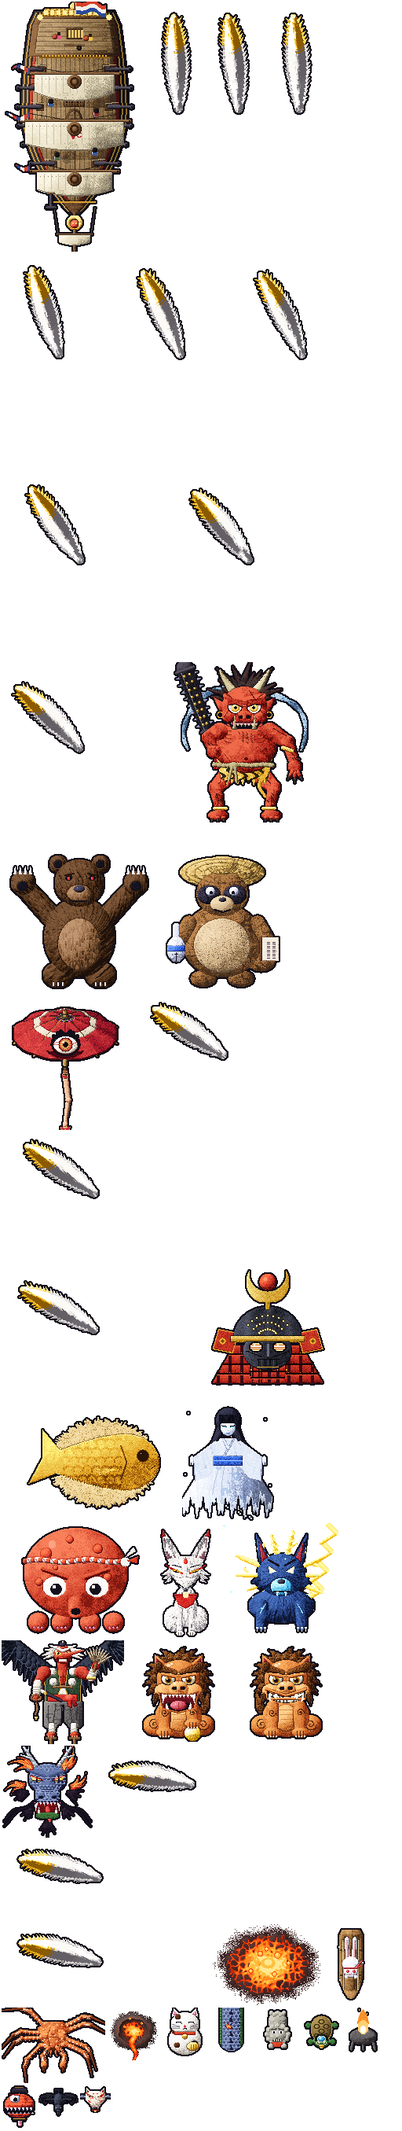
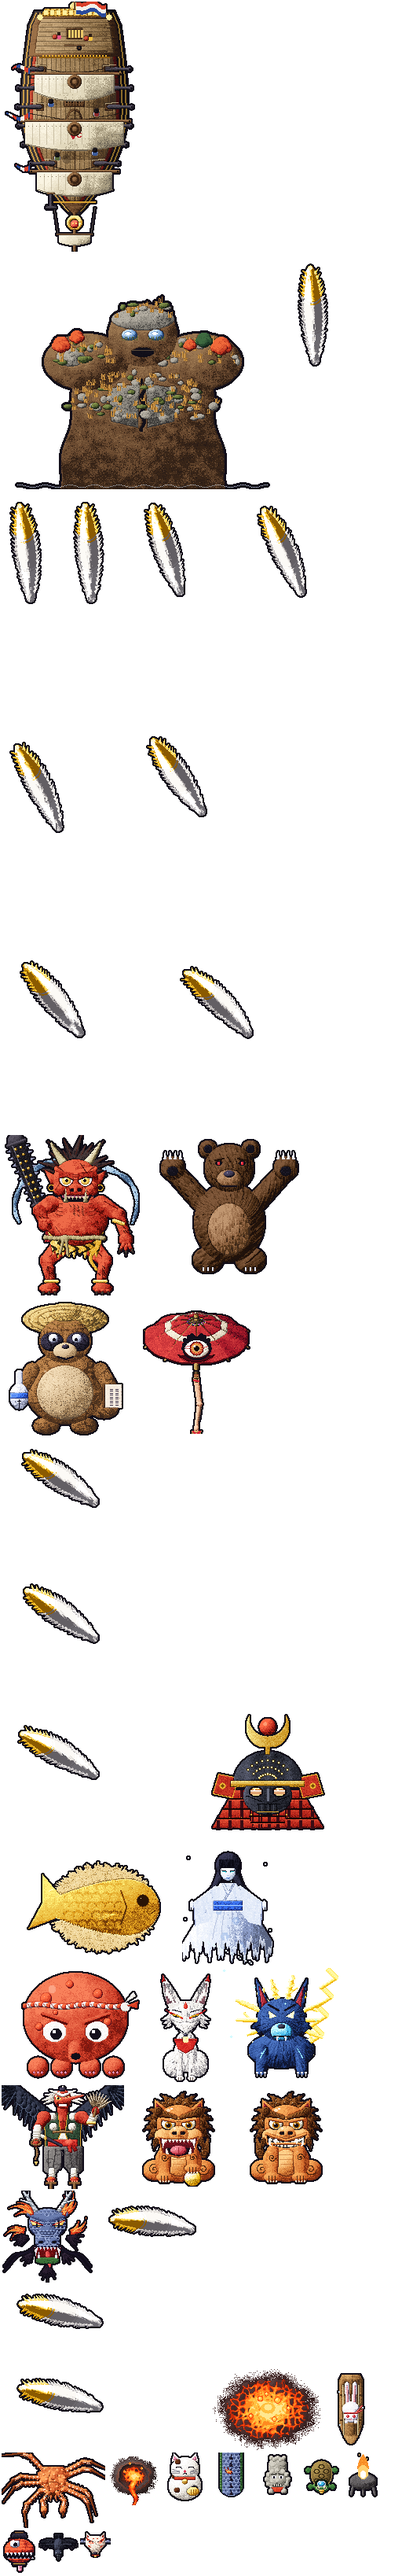
Kawaguchiko, phase 12: Daidarabotchi in parts. His body in three stages of wear (cracks spreading, moss and grass falling away, lumps knocked off his shoulders, trees gone), what his face does over it (lids of earth blinking down over the lake-eyes, the cave of his mouth roaring with teeth of stone)

diff --git a/docs/plan-kawaguchiko.md b/docs/plan-kawaguchiko.md
@@ -1,6 +1,6 @@
 # Plan: etap 10, KAWAGUCHIKO
 
-Stan: **w budowie**. Fazy 0–11 gotowe: całe tło etapu, przeciwnicy, fale i miniboss Kachi-kachi Usagi. Dalej boss (jeszcze Kyūbi na zastępstwo). 2026-11-18 autor zmienił kierunek: Fuji ma być **dominantą pokazaną klasycznie** (z boku, ze śnieżną czapą), więc etap kończy się **panoramą Fuji nad jeziorem**, a wspinaczka po stokach wypada. Pora roku: **późna jesień**. Fazy z sekcji 8 idą po kolei, a postęp odznacza się w nich checkboxami.
+Stan: **w budowie**. Fazy 0–12 gotowe: całe tło etapu, przeciwnicy, fale, miniboss Kachi-kachi Usagi i grafika bossa. Dalej walka z Daidarabotchim (w grze jeszcze Kyūbi na zastępstwo). 2026-11-18 autor zmienił kierunek: Fuji ma być **dominantą pokazaną klasycznie** (z boku, ze śnieżną czapą), więc etap kończy się **panoramą Fuji nad jeziorem**, a wspinaczka po stokach wypada. Pora roku: **późna jesień**. Fazy z sekcji 8 idą po kolei, a postęp odznacza się w nich checkboxami.
 
 ## 1. W skrócie
 
@@ -211,8 +211,8 @@ Wymaga: faza 0. Pliki: `src/game/enemies/kawaguchiko-usagi.js`, `tools/art/kawag
 
 ### Faza 12: Daidarabotchi, grafika
 Wymaga: faza 5. Plik: `tools/art/kawaguchiko/daidara.mjs`.
-- [ ] Projekt w trzech postaciach (kopiący, z koszem, sylwetka pod słońce) na tle panoramy, do akceptacji przed rysowaniem klatek
-- [ ] Części, stopnie zniszczenia, kosz i sznury, portret
+- [x] Projekt w trzech postaciach (kopiący, z koszem, sylwetka pod słońce) na tle panoramy, zaakceptowany przez autora (2026-11-18: „na ten moment tak”)
+- [x] Części w atlasie miasta (`dd_*`, 34 klatki, atlas 1024 × 997): ciało w trzech stopniach zużycia (pęknięcia, opadający mech i trawa, odłupane bryły barków, ubywające drzewa), nakładki twarzy (mrugnięcie powiekami z ziemi, ryk z kamiennymi zębami i rozlanymi oczami-jeziorkami), ramię na osi w barku z dłonią otwartą, zgarniającą wodę, z grudą i zaciśniętą (drugie to samo odbite), kikut lewego ramienia, drążek, kosz pełny i pusty (sznury rysuje gra), świecąca szczelina w piersi (słaby punkt, miętowy), grudy i kamienie w dwóch klatkach, słońce, wysepka z klonem; ciało, twarze, ramiona, kikut i drążek także jako sylwetki pod słońce (`_dusk`). Portret do albumu: `dd_body_0`
 
 ### Faza 13: Daidarabotchi, walka
 Wymaga: faza 12. Plik: `src/game/enemies/kawaguchiko-daidara.js`.
@@ -244,6 +244,7 @@ Po każdej sesji jeden wiersz: kto, która faza, co zrobione, co zostało, na co
 
 | Data | Kto | Faza | Zrobione | Zostało / uwagi |
 |---|---|---|---|---|
+| 2026-11-18 | Claude | 12 | Części olbrzyma w `daidara.mjs` (`daidaraFrames`, stałe `SHOULDER` i `CORE` do składania w grze); części dzielące kadr ciała pakowane z `trim`, żeby stały na swoich miejscach. | Następna: faza 13 (walka). |
 | 2026-11-18 | Claude | 12 (część) | Projekt Daidarabotchiego w trzech postaciach (`tools/art/kawaguchiko/daidara.mjs`): olbrzym z ziemi i kamienia po pas w jeziorze, rdzawa trawa, mech i kamienie na nim, klony i sosna na barkach, oczy jak jeziorka z niebem, usta jak jaskinia, kamienne dłonie, w piersi szczelina (słaby punkt); kopiący (garście ziemi, z których cieknie woda), z drążkiem i koszem na złotych sznurach, sylwetka pod zachodzące słońce z płonącym obrysem. Makiety na tle panoramy wysłane autorowi. | Czeka na akceptację projektu; potem klatki, części i stopnie zniszczenia. |
 | 2026-11-18 | Claude | 11 | `src/game/enemies/kawaguchiko-usagi.js` (wmiksowany w `Enemies`, strzały przez `bossDeviceHit`, koniec `usagi` w `updateDying`), `HEAVY.hp.usagi` = 860, skórka `heavy` z `kind: 'usagi'`. | Muzyka minibossa dalej z Kioto (faza 14). Następne: fazy 12–13 (Daidarabotchi). |
 | 2026-11-18 | Claude | 10 | Fale w `stage10.json` (generowane skryptem, jeden wpis w wierszu), pułapki i zasadzki ze współrzędnych mapy. | Testy `traps` i `ambush` obejmą etap po zdjęciu `wip`; reguły sprawdzone już przy pisaniu. Następna: faza 11 (Kachi-kachi Usagi). |
